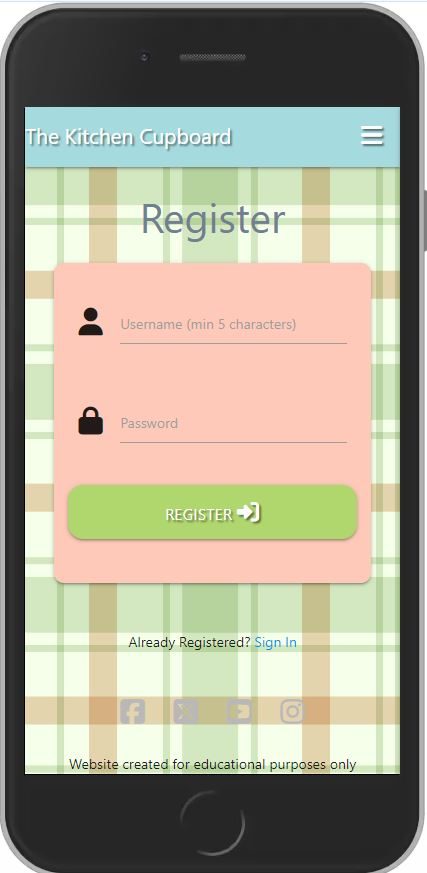
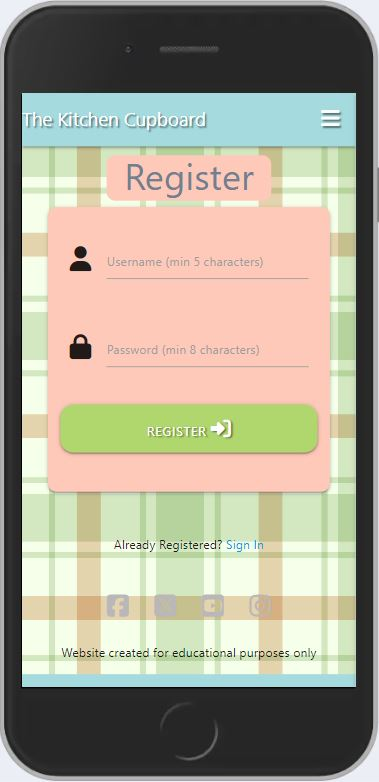
ADD css styling to sign in and register pages

diff --git a/static/css/style.css b/static/css/style.css
@@ -25,7 +25,7 @@ body {
     background-image: url('/static/images/background.jpg');
     background-size: cover;
     background-repeat: no-repeat;
-    background-color: #a5dade;
+    background-color: #a5dade; /* For use if the background image does not load
 }
 
 /* Headers and text*/
@@ -46,6 +46,16 @@ h2 {
     font-family: "Pacifico", cursive;
     color: gray;
     text-align: center;
+}
+
+h3 {
+    color: slategray;
+    width: 55%;
+    background-color: #FFC9B9;
+    border-radius: 10px; 
+    margin: 0 auto;
+    margin-top: 10px;
+    padding-bottom: 6px;
 }
 
 h4, h5 {
@@ -112,16 +122,6 @@ h4, h5 {
     padding: 2px;
     margin: 0 auto;
     margin-top: 10px;
-}
-
-.text-box {
-    display: flex;
-    flex-direction: column;
-    justify-content: center;
-    align-items: center;
-    text-align: center;
-    min-height: auto;
-    color: slategray;
 }
 
 /* Buttons*/

diff --git a/templates/signin.html b/templates/signin.html
@@ -3,7 +3,7 @@
 
 <!-- Sign in page for registered users -->
 
-<div class="text-box">
+<div>
     <h3 class="center-align">Sign In</h3>
 </div>
 

diff --git a/templates/register.html b/templates/register.html
@@ -3,7 +3,7 @@
 
 <!-- Register page for new users -->
 
-<div class="text-box">
+<div>
     <h3 class="center-align">Register</h3>
 </div>
 
